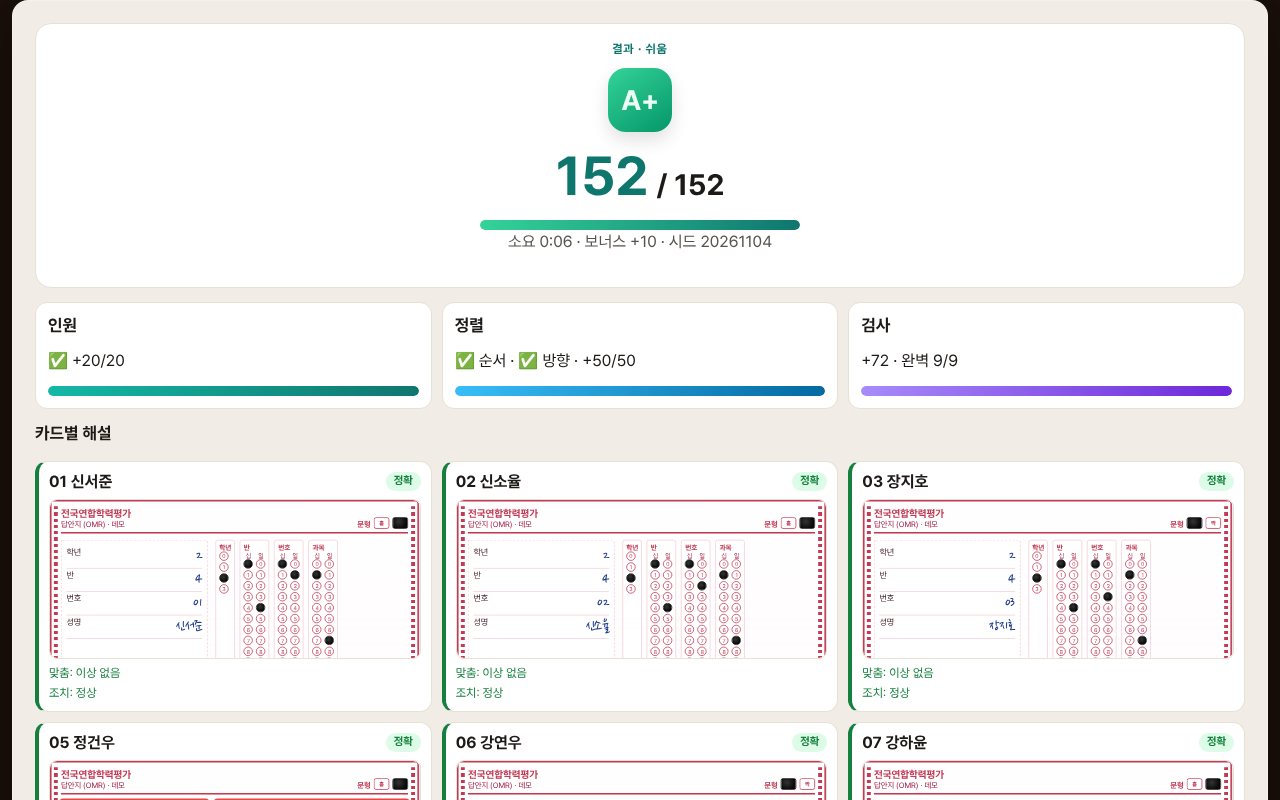
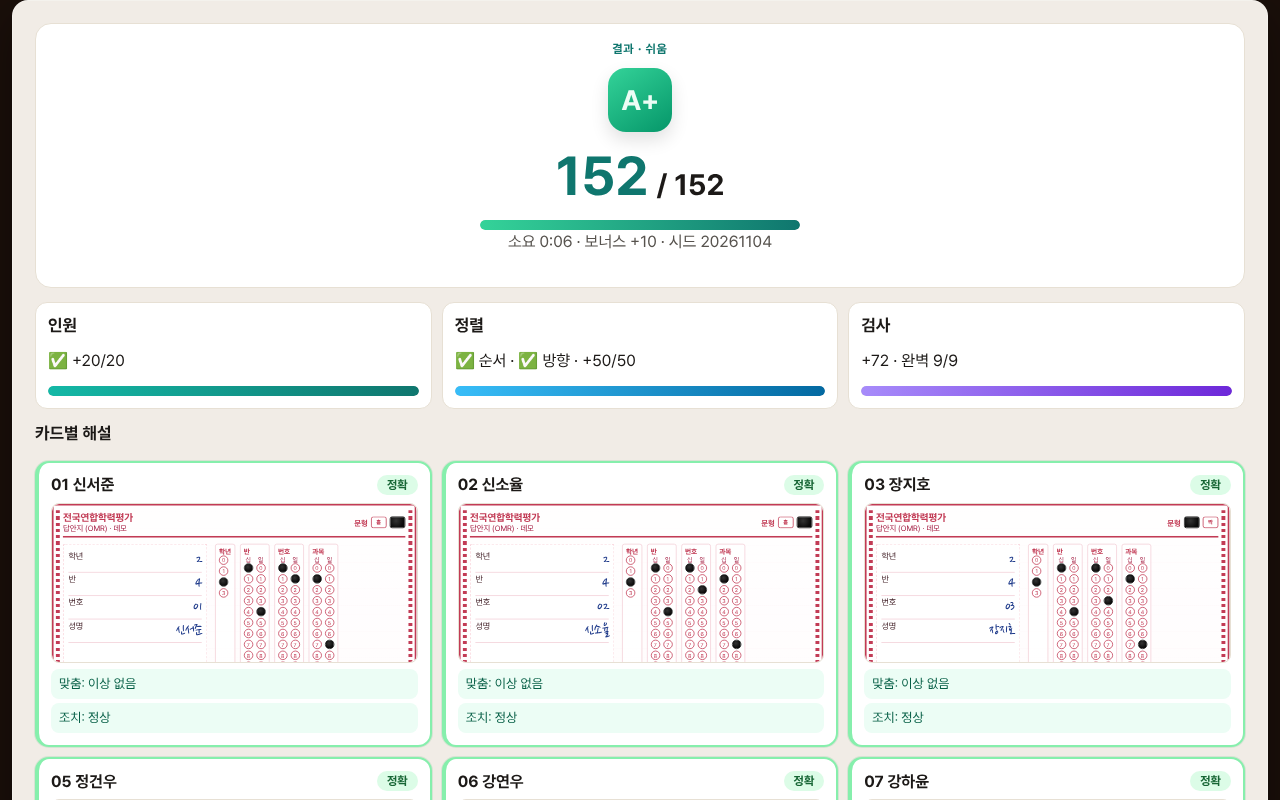
Round 0052: results card explain tags
Color the per-card hit/miss/false-positive lines and thicken
ok vs ng result borders for the score review screen.

Changed region(s): [[0.0, 0.5625, 1.0, 1.0], [0.4375, 0.7812, 0.4688, 0.8125], [0.125, 0.7812, 0.1562, 0.8125]]

diff --git a/src/style.css b/src/style.css
@@ -1827,3 +1827,39 @@ kbd {
   box-shadow: 0 12px 28px rgba(0,0,0,0.35);
   border: 1px solid #44403c;
 }
+
+
+/* 0052 results card explain tags */
+.result-card {
+  border-width: 2px;
+  border-radius: 14px;
+  padding: 12px !important;
+  background: #fff;
+}
+.result-card.ok { border-color: #86efac; box-shadow: 0 0 0 1px rgba(22,163,74,0.12); }
+.result-card.ng { border-color: #fda4af; box-shadow: 0 0 0 1px rgba(225,29,72,0.12); }
+.result-card header {
+  display: flex;
+  justify-content: space-between;
+  align-items: center;
+  gap: 8px;
+  margin-bottom: 8px;
+}
+.result-card .tag {
+  padding: 3px 10px;
+  border-radius: 999px;
+  font-size: 12px;
+  font-weight: 800;
+}
+.result-card .tag.good { background: #dcfce7; color: #166534; }
+.result-card .tag.bad { background: #ffe4e6; color: #9f1239; }
+.result-card .explain {
+  font-size: 13px;
+  line-height: 1.4;
+  padding: 6px 8px;
+  border-radius: 8px;
+  margin-top: 4px;
+}
+.result-card .explain.hit { background: #ecfdf5; color: #065f46; }
+.result-card .explain.miss { background: #fff1f2; color: #9f1239; }
+.result-card .explain.fp { background: #fff7ed; color: #9a3412; }

diff --git a/docs/issues/0052-results-explain.md b/docs/issues/0052-results-explain.md
@@ -1,0 +1,10 @@
+# 0052 Results card explain tags
+
+## Critique
+Per-card 맞춤/놓침/오판 lines looked like plain paragraphs.
+
+## Fix
+Green/rose/amber explain chips; stronger ok/ng card borders and 정확/미흡 pills.
+
+## Verify
+e2e OK · viewport OK

diff --git a/docs/ROUNDLOG.md b/docs/ROUNDLOG.md
@@ -82,3 +82,6 @@
 
 ## Round 0051 (03:12 KST)
 - Zoom toolbar + high-contrast toast
+
+## Round 0052 (03:13 KST)
+- Results card explain tags
